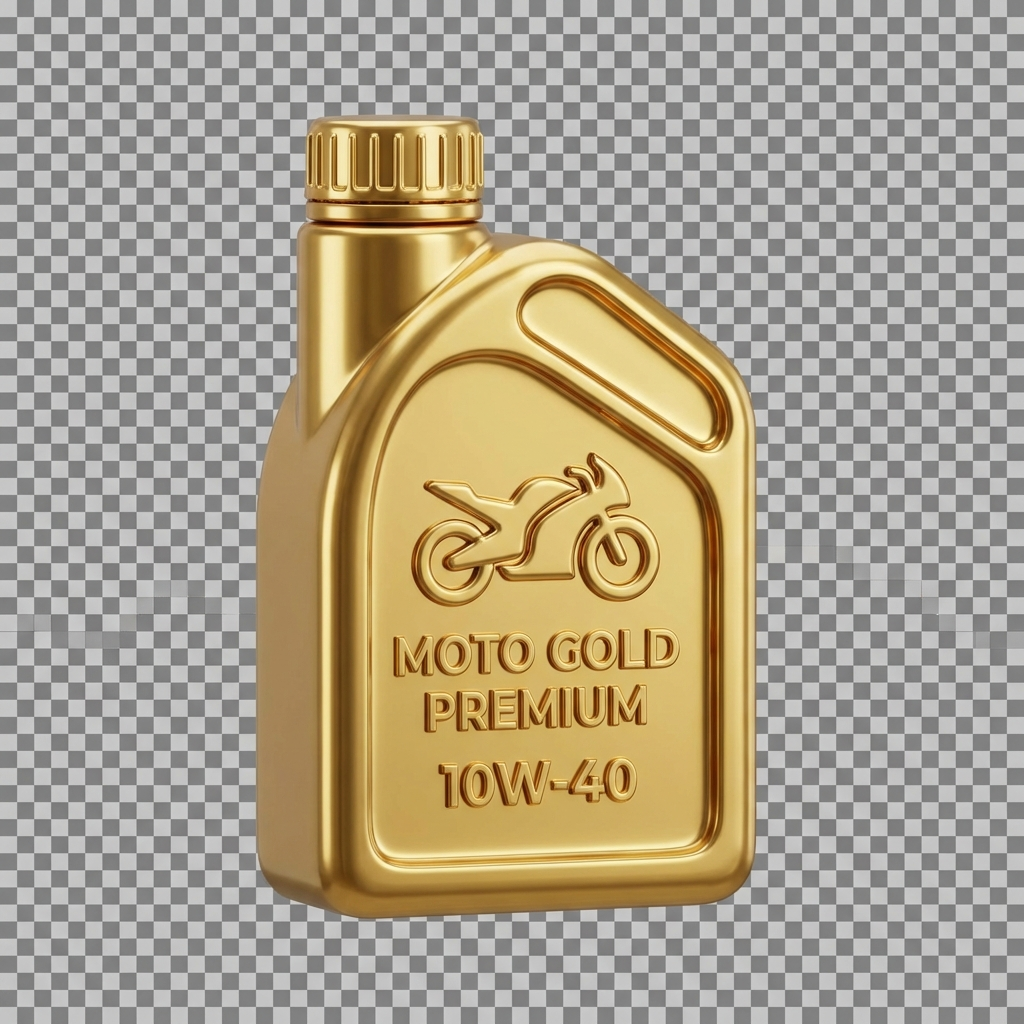
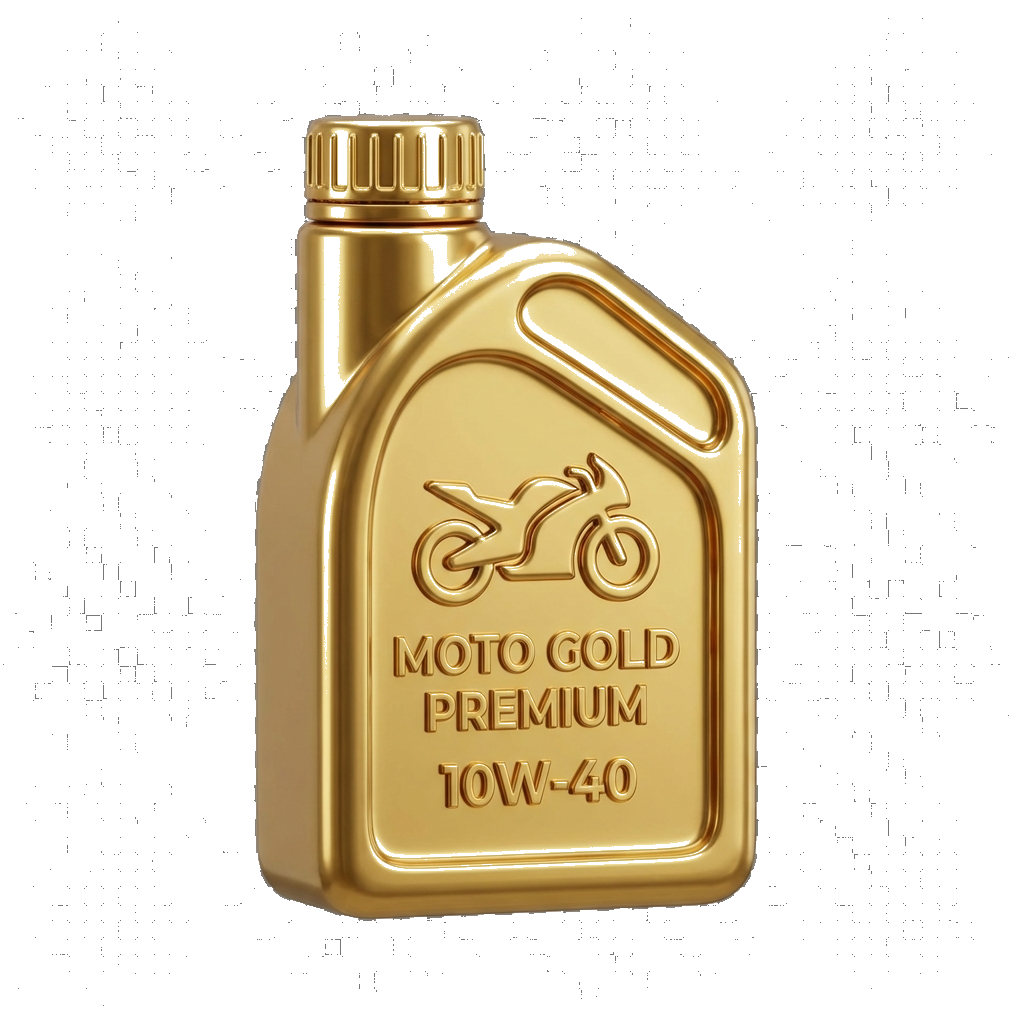
10st

diff --git a/script.js b/script.js
@@ -262,8 +262,29 @@ spinBtn.addEventListener('click', () => {
     spinBtn.disabled = true;
     spinBtn.style.filter = "grayscale(0.5)";
 
-    // Random winning segment
-    const winningIndex = Math.floor(Math.random() * segments);
+    // Weighted winning segment
+    // Weights: Dán Nilong = 0, others = 20% (equal)
+    // Prizes array indices:
+    // 0: x2 Thay Dầu
+    // 1: x2 Thay Pin
+    // 2: Rửa Xe
+    // 3: Dán Nilong (Target to exclude)
+    // 4: Lì Xì
+    // 5: Nước Làm Mát
+
+    const weights = [20, 20, 20, 0, 20, 20]; // Total 100
+    let totalWeight = weights.reduce((a, b) => a + b, 0);
+    let randomVal = Math.random() * totalWeight;
+    let winningIndex = 0;
+
+    for (let i = 0; i < weights.length; i++) {
+        if (randomVal < weights[i]) {
+            winningIndex = i;
+            break;
+        }
+        randomVal -= weights[i];
+    }
+
     const prize = prizes[winningIndex];
 
     console.log("Winning Index:", winningIndex, "Prize:", prize.text);

diff --git a/fix_transparency.py b/fix_transparency.py
@@ -1,57 +1,65 @@
 from PIL import Image
 import os
 
-def remove_light_background_aggressive(input_path, output_path):
-    """Aggressively remove white/light gray background including all light pixels"""
+def remove_checkerboard_or_light_bg(input_path):
+    """
+    Attempts to remove checkerboard patterns or light backgrounds.
+    Aggrresive mode: target common checkerboard grays and whites.
+    """
     try:
         img = Image.open(input_path).convert("RGBA")
         datas = img.getdata()
-        width, height = img.size
-
+        
         newData = []
         for item in datas:
             r, g, b, a = item
             
-            # Calculate brightness (average of RGB)
-            brightness = (r + g + b) / 3
+            # Brightness
+            brightness = (r + g + b) / 3.0
             
-            # Check if pixel is light colored (white, light gray, or near-white)
-            # Also check if it's a "grayish" pixel (low color saturation + high brightness)
-            max_rgb = max(r, g, b)
-            min_rgb = min(r, g, b)
-            saturation = max_rgb - min_rgb
+            # Saturation (Difference between max and min channel)
+            saturation = max(r, g, b) - min(r, g, b)
             
-            # Remove if:
-            # 1. Very bright (brightness > 200)
-            # 2. Low saturation (grayish) AND somewhat bright
-            if brightness > 200:
-                newData.append((255, 255, 255, 0))  # Fully transparent
-            elif brightness > 180 and saturation < 30:
-                newData.append((255, 255, 255, 0))  # Also transparent (gray pixels)
-            elif brightness > 160 and saturation < 20:
-                newData.append((255, 255, 255, 0))  # Very low saturation grays
+            is_transparent = False
+
+            # 1. White / Light
+            if brightness > 210:
+                is_transparent = True
+            
+            # 2. Common Transparency Grays (often around 204 or #CCCCCC, 192 or #C0C0C0)
+            # We catch anything gray-ish that is lighter than dark gray
+            elif brightness > 150 and saturation < 25:
+                 is_transparent = True
+
+            # 3. Specific check for "checkerboard gray" which is usually strictly neutral
+            elif saturation < 10 and brightness > 120:
+                # To avoid deleting black/dark gray objects, we keep > 120
+                is_transparent = True
+
+            if is_transparent:
+                newData.append((255, 255, 255, 0))
             else:
                 newData.append(item)
 
         img.putdata(newData)
-        img.save(output_path, "PNG")
-        print(f"Successfully cleaned background from {input_path}")
-        print(f"Saved to {output_path}")
+        # Save back to same path
+        img.save(input_path, "PNG")
+        print(f"Processed: {input_path}")
+        
     except Exception as e:
-        print(f"Error processing image: {e}")
+        print(f"Error processing {input_path}: {e}")
 
-# Re-download original and process
-# First, let's copy the original again
-source_file = "C:/Users/hanguyenviet/.gemini/antigravity/brain/994f0b1b-282a-47c2-8b60-42b60a1acd08/media__1770346828005.png"
-output_file = "dragon_pointer.png"
+images_to_fix = [
+    "oil_bottle_gold.png",
+    "smart_key_fob.png",
+    "vinfast_vf3.png",
+    "vinfast_scooter.png",
+    "red_envelope.png",
+    "gift_combo.png" 
+]
 
-if os.path.exists(source_file):
-    remove_light_background_aggressive(source_file, output_file)
-else:
-    # Try with existing file
-    if os.path.exists(output_file):
-        # Make a backup first
-        img = Image.open(output_file)
-        remove_light_background_aggressive(output_file, output_file)
+for img_name in images_to_fix:
+    if os.path.exists(img_name):
+        remove_checkerboard_or_light_bg(img_name)
     else:
-        print("No source file found!")
+        print(f"Skipping {img_name} (not found)")
